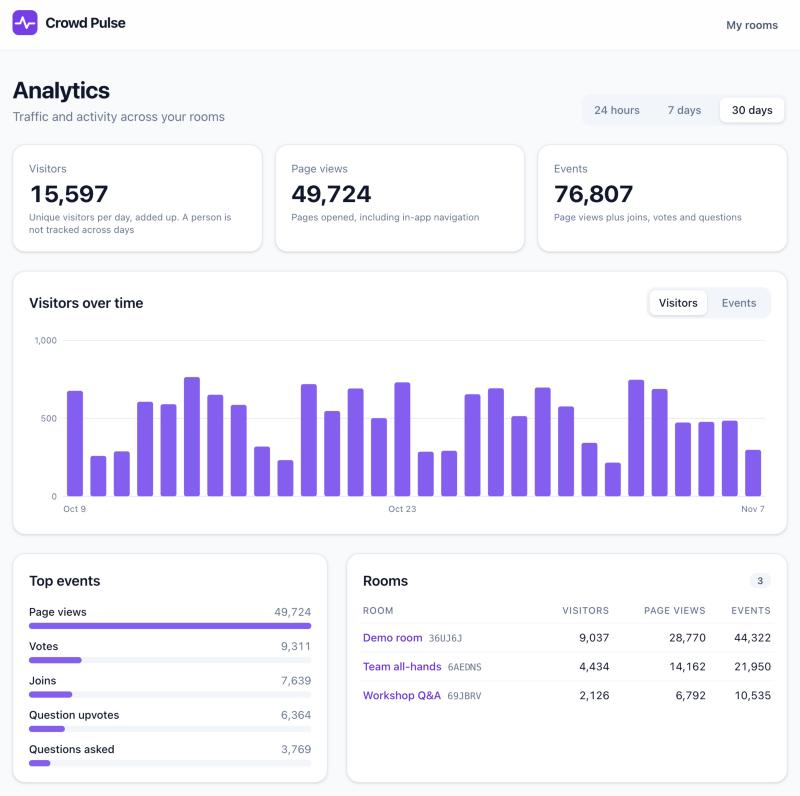
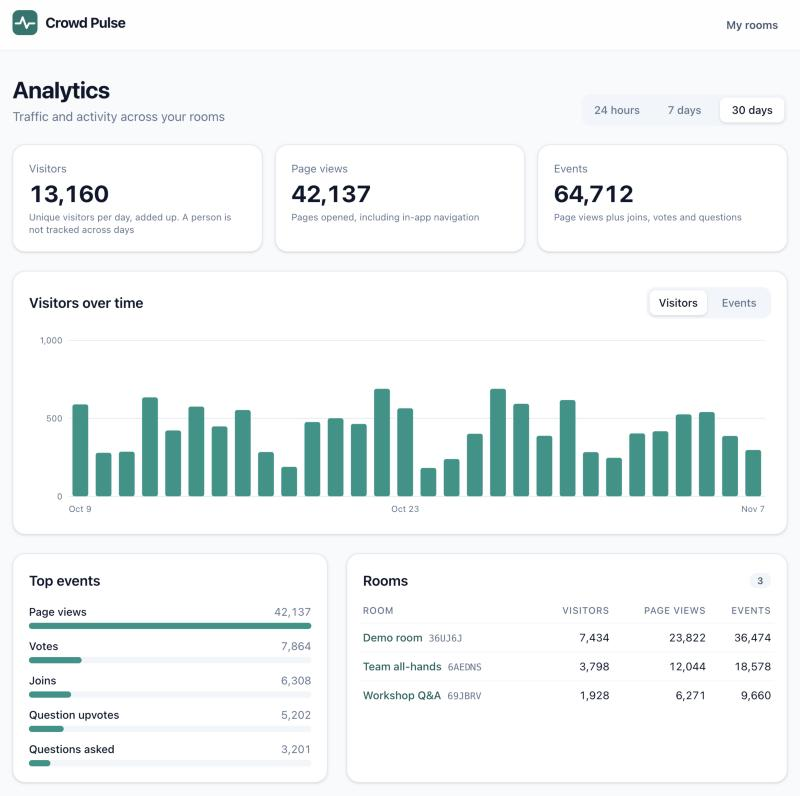
style(qa): switch the brand color to teal and fix clipped chart axis labels

diff --git a/apps/qa/src/analytics/TimeSeriesChart.tsx b/apps/qa/src/analytics/TimeSeriesChart.tsx
@@ -64,7 +64,8 @@ export default function TimeSeriesChart({
   const peak = Math.max(0, ...values);
   const total = values.reduce((sum, value) => sum + value, 0);
   const max = niceMax(Math.max(1, peak));
-  const plotWidth = width - PAD.left - PAD.right;
+  const padLeft = Math.max(PAD.left, max.toLocaleString("en-US").length * 7 + 16);
+  const plotWidth = width - padLeft - PAD.right;
   const plotHeight = HEIGHT - PAD.top - PAD.bottom;
   const slot = plotWidth / Math.max(points.length, 1);
   const barWidth = Math.max(2, slot * 0.68);
@@ -88,7 +89,7 @@ export default function TimeSeriesChart({
           return (
             <g key={tick}>
               <line
-                x1={PAD.left}
+                x1={padLeft}
                 x2={width - PAD.right}
                 y1={y}
                 y2={y}
@@ -96,7 +97,7 @@ export default function TimeSeriesChart({
                 strokeWidth="1"
               />
               <text
-                x={PAD.left - 8}
+                x={padLeft - 8}
                 y={y + 4}
                 textAnchor="end"
                 className="fill-slate-500 text-[11px] dark:fill-slate-400"
@@ -110,7 +111,7 @@ export default function TimeSeriesChart({
         {points.map((point, index) => {
           const value = point[metric];
           const height = value > 0 ? Math.max(2, (value / max) * plotHeight) : 0;
-          const x = PAD.left + index * slot + (slot - barWidth) / 2;
+          const x = padLeft + index * slot + (slot - barWidth) / 2;
           return (
             <rect
               key={point.at}
@@ -127,7 +128,7 @@ export default function TimeSeriesChart({
         })}
 
         {labelIndexes.map((index, position) => {
-          const x = PAD.left + index * slot + slot / 2;
+          const x = padLeft + index * slot + slot / 2;
           const anchor =
             position === 0 && labelIndexes.length > 1
               ? "start"
@@ -137,7 +138,7 @@ export default function TimeSeriesChart({
           return (
             <text
               key={index}
-              x={anchor === "start" ? PAD.left : anchor === "end" ? width - PAD.right : x}
+              x={anchor === "start" ? padLeft : anchor === "end" ? width - PAD.right : x}
               y={HEIGHT - 8}
               textAnchor={anchor}
               className="fill-slate-500 text-[11px] dark:fill-slate-400"

diff --git a/apps/qa/src/index.css b/apps/qa/src/index.css
@@ -4,17 +4,17 @@
   --font-sans: ui-sans-serif, system-ui, -apple-system, "Segoe UI", Roboto,
     "Helvetica Neue", sans-serif;
 
-  --color-brand-50: #f5f3ff;
-  --color-brand-100: #ede9fe;
-  --color-brand-200: #ddd6fe;
-  --color-brand-300: #c4b5fd;
-  --color-brand-400: #a78bfa;
-  --color-brand-500: #8b5cf6;
-  --color-brand-600: #7c3aed;
-  --color-brand-700: #6d28d9;
-  --color-brand-800: #5b21b6;
-  --color-brand-900: #4c1d95;
-  --color-brand-950: #2e1065;
+  --color-brand-50: #f0fdfa;
+  --color-brand-100: #ccfbf1;
+  --color-brand-200: #99f6e4;
+  --color-brand-300: #5eead4;
+  --color-brand-400: #2dd4bf;
+  --color-brand-500: #0d9488;
+  --color-brand-600: #0f766e;
+  --color-brand-700: #115e59;
+  --color-brand-800: #134e4a;
+  --color-brand-900: #0f3d3a;
+  --color-brand-950: #042f2e;
 
   --animate-slide-in: slide-in 0.3s ease-out;
   --animate-fade-in: fade-in 0.25s ease-out;

diff --git a/apps/qa/index.html b/apps/qa/index.html
@@ -8,7 +8,7 @@
       name="description"
       content="Live polls and Q&A in real time. Create a room, share a code, and watch votes and questions arrive instantly."
     />
-    <meta name="theme-color" content="#7c3aed" />
+    <meta name="theme-color" content="#0f766e" />
 
     <meta property="og:type" content="website" />
     <meta property="og:site_name" content="Crowd Pulse" />

diff --git a/README.md b/README.md
@@ -8,7 +8,7 @@ A live Q&A and polling platform, a lightweight privacy-friendly analytics tool, 
 
 ## Screenshots
 
-The analytics dashboard, filled with about 78,000 synthetic events (see [Generating sample analytics data](#generating-sample-analytics-data)). It follows the system light or dark theme and works on a phone.
+The analytics dashboard, filled with about 66,000 synthetic events (see [Generating sample analytics data](#generating-sample-analytics-data)). It follows the system light or dark theme and works on a phone.
 
 | Dark, last 7 days | Light, last 30 days |
 | --- | --- |
